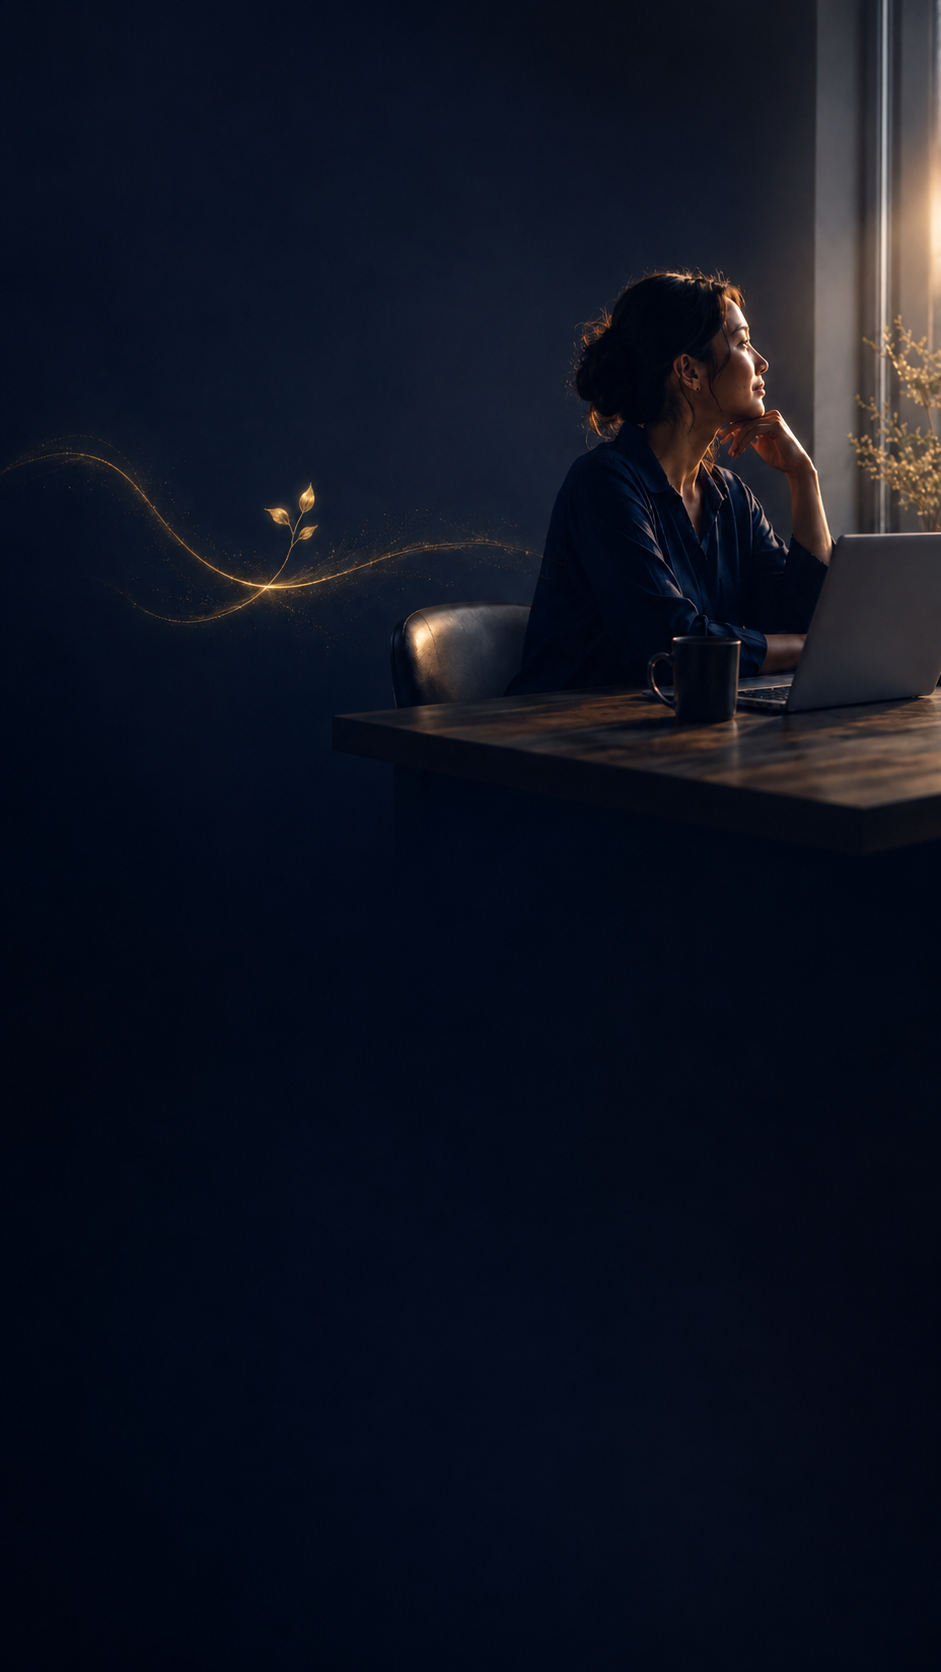
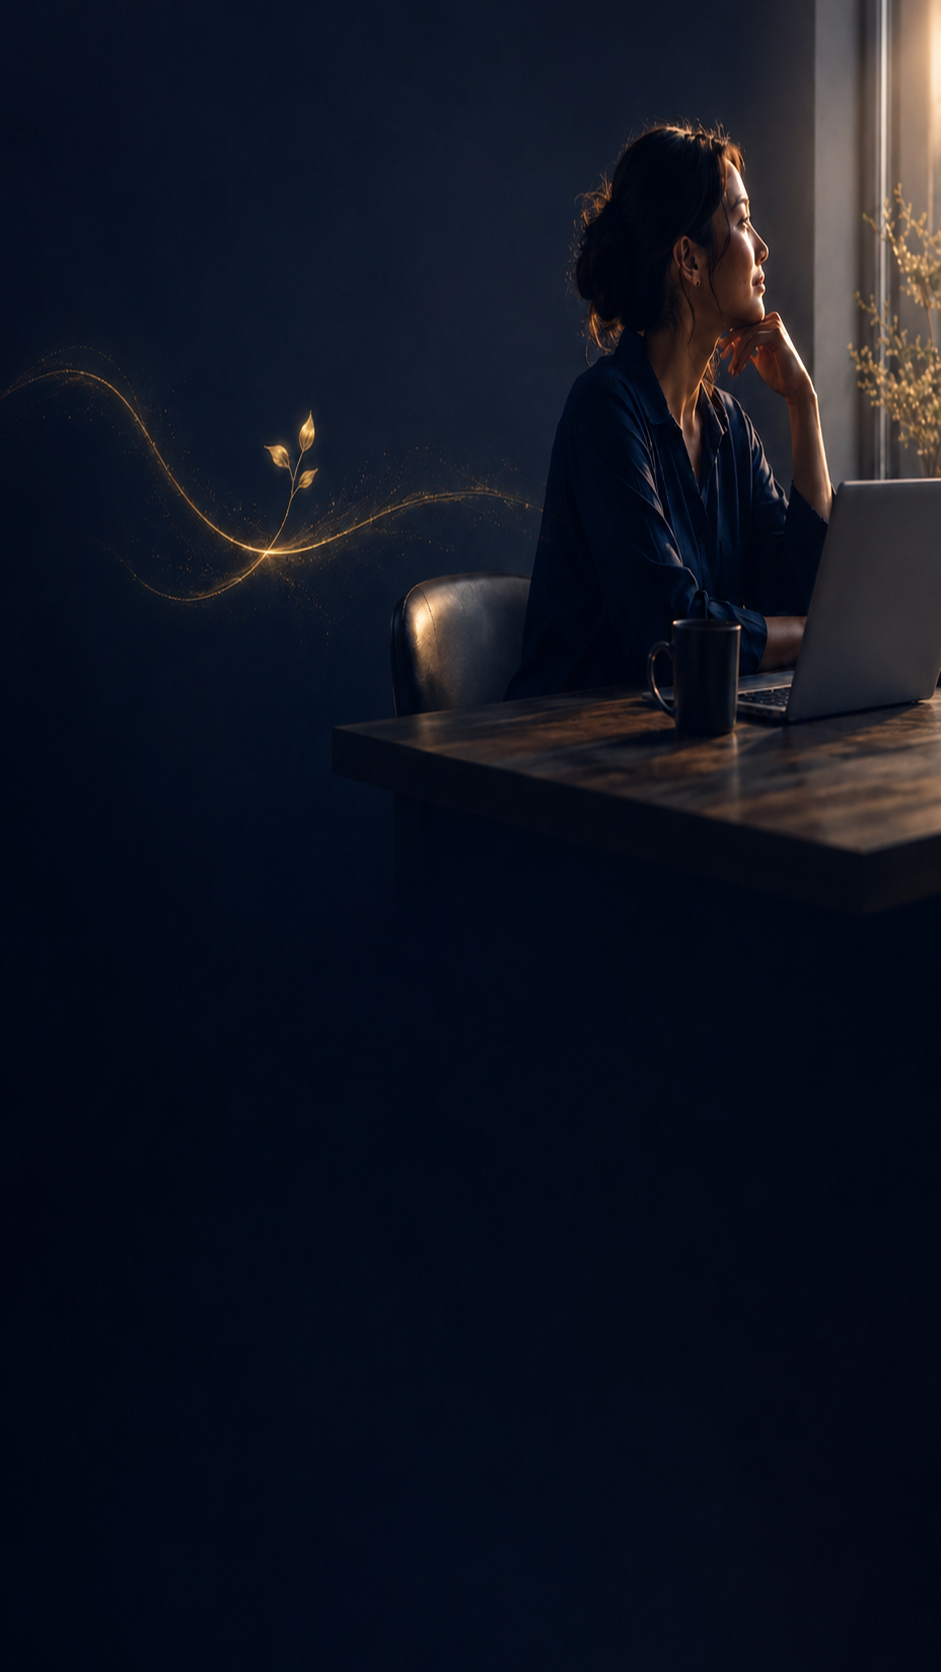
Add files via upload

Changed region(s): [[0.0616, 0.0, 1.0, 0.5287]]

diff --git a/assets/css/styles.css b/assets/css/styles.css
@@ -3769,3 +3769,45 @@ button{font:inherit}
     width:57% !important;
   }
 }
+
+
+/* v35h9 mobile top-crop correction
+   Goal:
+   - remove the extra navy space above the woman's head on mobile
+   - keep the 2-line copy lower, closer to the sparkle level
+   - make the gold sprout/light line overlap the green + pink wave boundary
+   - keep desktop unchanged
+*/
+@media (max-width:640px) and (pointer:coarse){
+  .hero-visual{height:250px !important;min-height:250px !important;overflow:hidden !important;}
+  .hero-picture img{object-position:56% 9% !important;transform:scale(1.14) !important;transform-origin:56% 8% !important;}
+  .hero-copy{top:18.5% !important;left:5.4% !important;width:52% !important;max-width:205px !important;}
+  .hero-copy h1{font-size:22px !important;line-height:1.03 !important;}
+  .hero-gold-motif{left:-4.5% !important;bottom:-10px !important;width:110.5% !important;opacity:.96 !important;}
+  .hero-green-wave{height:14% !important;bottom:-8px !important;z-index:10 !important;}
+  .services-section{margin-top:-2px !important;padding-top:48px !important;}
+  .services-copy{margin-top:6px !important;}
+  .services-pink-sweep{top:-54px !important;width:56% !important;}
+}
+@media (max-width:430px) and (pointer:coarse){
+  .hero-visual{height:238px !important;min-height:238px !important;}
+  .hero-picture img{object-position:56.5% 8.5% !important;transform:scale(1.155) !important;transform-origin:56.5% 8% !important;}
+  .hero-copy{top:19.5% !important;left:5.2% !important;width:52% !important;max-width:198px !important;}
+  .hero-copy h1{font-size:21px !important;line-height:1.03 !important;}
+  .hero-gold-motif{left:-4.8% !important;bottom:-12px !important;width:111.5% !important;}
+  .hero-green-wave{height:14.5% !important;bottom:-9px !important;}
+  .services-section{padding-top:46px !important;}
+  .services-copy{margin-top:8px !important;}
+  .services-pink-sweep{top:-52px !important;width:57% !important;}
+}
+@media (max-width:390px) and (pointer:coarse){
+  .hero-visual{height:228px !important;min-height:228px !important;}
+  .hero-picture img{object-position:57% 8% !important;transform:scale(1.17) !important;transform-origin:57% 8% !important;}
+  .hero-copy{top:20.5% !important;left:5% !important;width:52% !important;max-width:190px !important;}
+  .hero-copy h1{font-size:20px !important;line-height:1.03 !important;}
+  .hero-gold-motif{left:-5.1% !important;bottom:-13px !important;width:112% !important;}
+  .hero-green-wave{height:15% !important;bottom:-10px !important;}
+  .services-section{padding-top:44px !important;}
+  .services-copy{margin-top:8px !important;}
+  .services-pink-sweep{top:-50px !important;width:58% !important;}
+}

diff --git a/index.html b/index.html
@@ -30,7 +30,7 @@
   <link rel="preconnect" href="https://fonts.googleapis.com">
   <link rel="preconnect" href="https://fonts.gstatic.com" crossorigin>
   <link href="https://fonts.googleapis.com/css2?family=Cinzel:wght@400;500;600;700&family=Cormorant+Garamond:wght@400;500;600;700&display=swap" rel="stylesheet">
-  <link rel="stylesheet" href="assets/css/styles.css?v=35h8" />
+  <link rel="stylesheet" href="assets/css/styles.css?v=35h9" />
 
   <script type="application/ld+json">
 {
@@ -118,8 +118,8 @@
   <main>
     <section class="hero-visual" aria-label="NOVI Creative Studio hero artwork">
       <picture class="hero-picture">
-        <source srcset="assets/images/novi-creative-studio-hero-mobile.png?v=35h8" media="(max-width: 640px)">
-        <img src="assets/images/novi-creative-studio-hero-desktop.png?v=35h8" width="1672" height="941" alt="NOVI Creative Studio hero image with gold light motif, strategic website design message, and a woman working beside a laptop" fetchpriority="high" />
+        <source srcset="assets/images/novi-creative-studio-hero-mobile.png?v=35h9" media="(max-width: 640px)">
+        <img src="assets/images/novi-creative-studio-hero-desktop.png?v=35h9" width="1672" height="941" alt="NOVI Creative Studio hero image with gold light motif, strategic website design message, and a woman working beside a laptop" fetchpriority="high" />
       </picture>
 
       <!-- Hero headline is live HTML text for SEO, not part of the image. -->
@@ -133,7 +133,7 @@
       <span class="hero-glow glow-window" aria-hidden="true"></span>
       <span class="hero-spark spark-two" aria-hidden="true"></span>
       <span class="hero-spark spark-three" aria-hidden="true"></span>
-      <img class="hero-gold-motif" src="assets/images/novi-creative-studio-gold-leaf-light-motif.png?v=35h8" alt="" aria-hidden="true" />
+      <img class="hero-gold-motif" src="assets/images/novi-creative-studio-gold-leaf-light-motif.png?v=35h9" alt="" aria-hidden="true" />
 
 
 
@@ -216,6 +216,6 @@
     </section>
   </main>
 
-  <script src="assets/js/script.js?v=35h8" defer></script>
+  <script src="assets/js/script.js?v=35h9" defer></script>
 </body>
 </html>